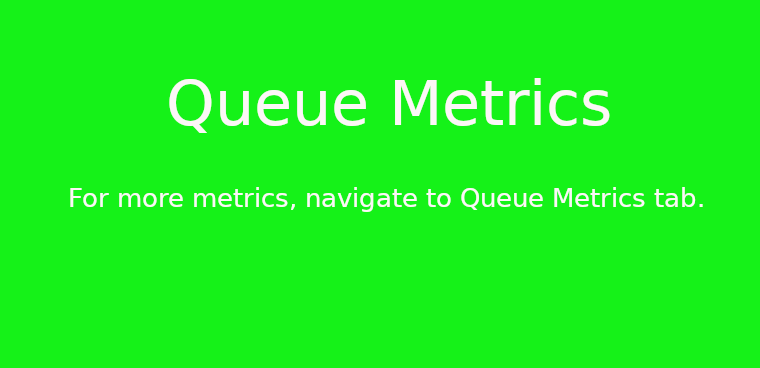
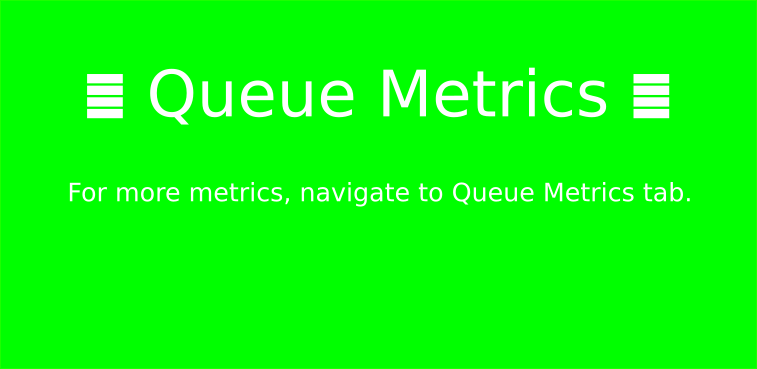
Add files via upload

Changed region(s): [[0.0911, 0.1793, 0.9115, 0.3587], [0.0911, 0.4783, 0.9419, 0.5679]]

diff --git a/README.md b/README.md
@@ -1,1 +1,3 @@
 # metrics
+# Novo logo
+
